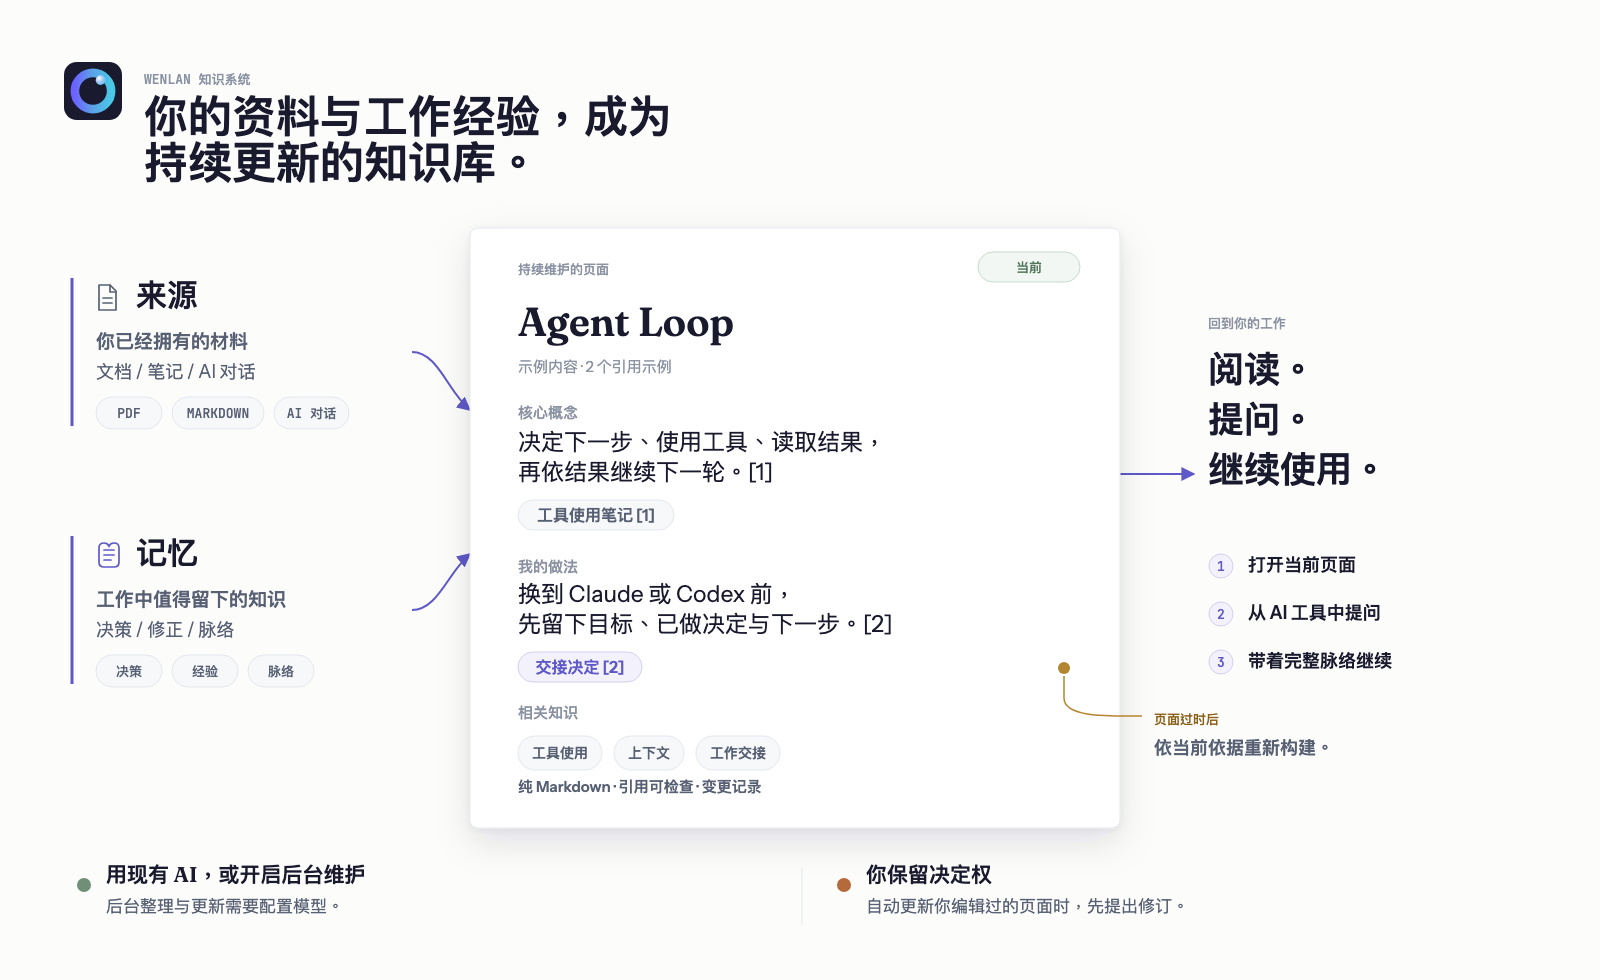
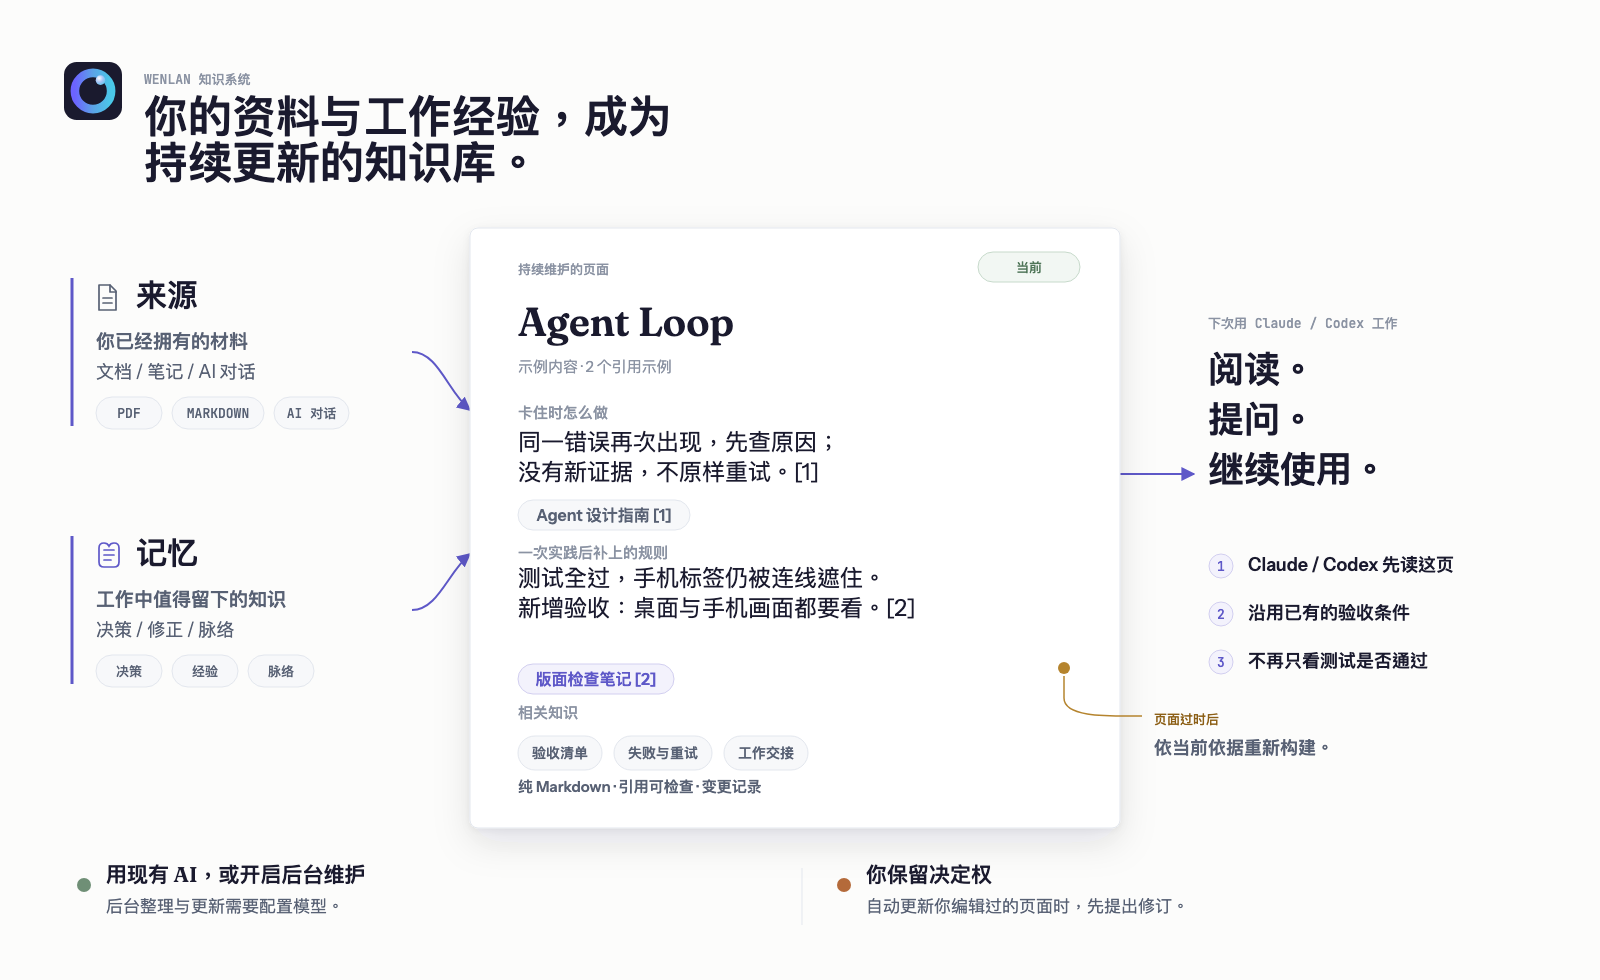
docs(readme): show reusable lessons in the Agent Loop example

diff --git a/README.es-ES.md b/README.es-ES.md
@@ -1,4 +1,4 @@
-<!-- README_SYNC: source=README.md sha256=d37b170604ca1a51807bb44de4d33297cf3dc83091c38c15baa8217961ce4ef3 -->
+<!-- README_SYNC: source=README.md sha256=107e6cc91f363915ef95a1c68aa25e95a927e209b6d33ca322c5d4371998257d -->
 
 <p align="center">
   <picture>
@@ -139,12 +139,14 @@ Tus páginas son archivos Markdown locales que puedes leer, editar y llevarte co
 <p align="center">
   <picture>
     <source media="(max-width: 600px)" srcset="./docs/assets/wenlan-system-mobile.png">
-    <img src="./docs/assets/wenlan-system.png" alt="Las fuentes y memorias sustentan independientemente una Página mantenida. Wenlan puede reconstruir una Página obsoleta a partir de su sustento actual; la revisión de conflictos opcional puede resaltar conflictos protegidos, y los cambios en la escritura humana esperan al usuario." width="100%">
+    <img src="./docs/assets/wenlan-system.png" alt="Fuentes y memorias se reúnen en una nota de ejemplo sobre Agent Loop. Una lección concreta complementa las pautas de reintento: las pruebas pasaron, pero una línea aún tapaba una etiqueta en móvil. La revisión visual en escritorio y móvil pasa a formar parte de los criterios que Claude o Codex pueden reutilizar." width="100%">
   </picture>
 </p>
 
 <details>
 <summary>Cómo se conectan las fuentes, memorias y páginas</summary>
+
+La nota de ejemplo adapta una [guía de diseño de agentes](https://www.anthropic.com/engineering/building-effective-agents) y las [correcciones de los diagramas de este README](https://github.com/7xuanlu/wenlan/commit/061fbc6ab12a76ec805869e46d464a58a06db296). Ilustra conocimiento reutilizable, no resultados medidos de clientes ni una página generada automáticamente.
 
 Con Wenlan, el trabajo en curso no se queda dentro de la ventana del chat. Puedes guardar los documentos y conversaciones que elijas, anotar las decisiones que tomes y organizarlos en páginas que puedas leer, editar y reutilizar. La generación de páginas y su mantenimiento en segundo plano requieren configurar la [vía de IA](#models-and-privacy).
 

diff --git a/README.zh-Hans.md b/README.zh-Hans.md
@@ -1,4 +1,4 @@
-<!-- README_SYNC: source=README.md sha256=d37b170604ca1a51807bb44de4d33297cf3dc83091c38c15baa8217961ce4ef3 -->
+<!-- README_SYNC: source=README.md sha256=107e6cc91f363915ef95a1c68aa25e95a927e209b6d33ca322c5d4371998257d -->
 
 <p align="center">
   <picture>
@@ -138,12 +138,14 @@ npx -y wenlan setup
 <p align="center">
   <picture>
     <source media="(max-width: 600px)" srcset="./docs/assets/wenlan-system-zh-Hans-mobile.png">
-    <img src="./docs/assets/wenlan-system-zh-Hans.png" alt="来源与记忆分别支撑同一个持续维护的页面。页面过时后，Wenlan 可以依当前依据重建；可选的冲突审核可以让受保护内容的冲突浮现，对人工文字的改动则等待用户判断。" width="100%">
+    <img src="./docs/assets/wenlan-system-zh-Hans.png" alt="来源与记忆整理成 Agent Loop 笔记示例：重试原则结合一次具体教训，测试通过但手机标签仍被连线遮住。因此把桌面与手机画面检查补进验收条件，供后续使用 Claude 或 Codex 时沿用。" width="100%">
   </picture>
 </p>
 
 <details>
 <summary>来源、记忆与页面如何协作</summary>
+
+图中笔记取材自 [Agent 设计指南](https://www.anthropic.com/engineering/building-effective-agents)与[这份 README 的图稿审查修正](https://github.com/7xuanlu/wenlan/commit/061fbc6ab12a76ec805869e46d464a58a06db296)，示范如何留下可复用的工作准则，不是用户成效数据或自动生成页面的实测记录。
 
 Wenlan 让持续进行的工作不只留在聊天窗口里。你可以保存选定的文档和对话，记下过程中的决定，再把它们整理成可阅读、编辑和重用的页面。页面生成与后台维护需要先配置[AI 路径](#models-and-privacy)。
 

diff --git a/README.zh-Hant.md b/README.zh-Hant.md
@@ -1,4 +1,4 @@
-<!-- README_SYNC: source=README.md sha256=d37b170604ca1a51807bb44de4d33297cf3dc83091c38c15baa8217961ce4ef3 -->
+<!-- README_SYNC: source=README.md sha256=107e6cc91f363915ef95a1c68aa25e95a927e209b6d33ca322c5d4371998257d -->
 
 <p align="center">
   <picture>
@@ -138,12 +138,14 @@ npx -y wenlan setup
 <p align="center">
   <picture>
     <source media="(max-width: 600px)" srcset="./docs/assets/wenlan-system-zh-Hant-mobile.png">
-    <img src="./docs/assets/wenlan-system-zh-Hant.png" alt="來源與記憶分別支撐同一個持續維護的頁面。頁面過時後，Wenlan 可以依目前依據重建；可選的衝突審核可以讓受保護內容的衝突浮現，對人工文字的改動則等待使用者判斷。" width="100%">
+    <img src="./docs/assets/wenlan-system-zh-Hant.png" alt="來源與記憶整理成 Agent Loop 筆記示例：重試原則結合一次具體教訓，測試通過但手機標籤仍被連線遮住。因此把桌面與手機畫面檢查補進驗收條件，供後續使用 Claude 或 Codex 時沿用。" width="100%">
   </picture>
 </p>
 
 <details>
 <summary>來源、記憶與頁面如何協作</summary>
+
+圖中筆記取材自 [Agent 設計指南](https://www.anthropic.com/engineering/building-effective-agents)與[這份 README 的圖稿審查修正](https://github.com/7xuanlu/wenlan/commit/061fbc6ab12a76ec805869e46d464a58a06db296)，示範如何留下可重用的工作準則，不是使用者成效數據或自動產頁的實測紀錄。
 
 Wenlan 讓持續進行的工作不只留在聊天視窗裡。你可以保存選定的文件與對話，記下過程中的決定，再把它們整理成可閱讀、編輯和重用的頁面。頁面生成與背景維護需要先設定[AI 路徑](#models-and-privacy)。
 

diff --git a/README.md b/README.md
@@ -135,12 +135,14 @@ Your pages are local Markdown files you can read, edit, and take with you.
 <p align="center">
   <picture>
     <source media="(max-width: 600px)" srcset="./docs/assets/wenlan-system-mobile.png">
-    <img src="./docs/assets/wenlan-system.png" alt="Sources and memories independently support a maintained Page. Wenlan can rebuild a stale Page from its current support; optional conflict review can surface protected conflicts, and changes to human writing wait for the user." width="100%">
+    <img src="./docs/assets/wenlan-system.png" alt="Sources and memories feed an illustrative Agent Loop page. It combines retry guidance with a concrete lesson: tests passed, but a line still covered a mobile label. Desktop and mobile visual checks become part of the completion criteria for later work with Claude or Codex." width="100%">
   </picture>
 </p>
 
 <details>
 <summary>How sources, memories, and pages work together</summary>
+
+The example adapts [agent-design guidance](https://www.anthropic.com/engineering/building-effective-agents) and [this README's diagram-review fixes](https://github.com/7xuanlu/wenlan/commit/061fbc6ab12a76ec805869e46d464a58a06db296) into a working note. It illustrates reusable knowledge, not a measured customer outcome or an automatically generated page.
 
 Wenlan gives ongoing work a place outside the chat window. Keep selected documents and conversations, save decisions made along the way, and organize them into pages you can read, edit, and reuse. Page generation and background maintenance depend on the [configured AI path](#models-and-privacy).
 
